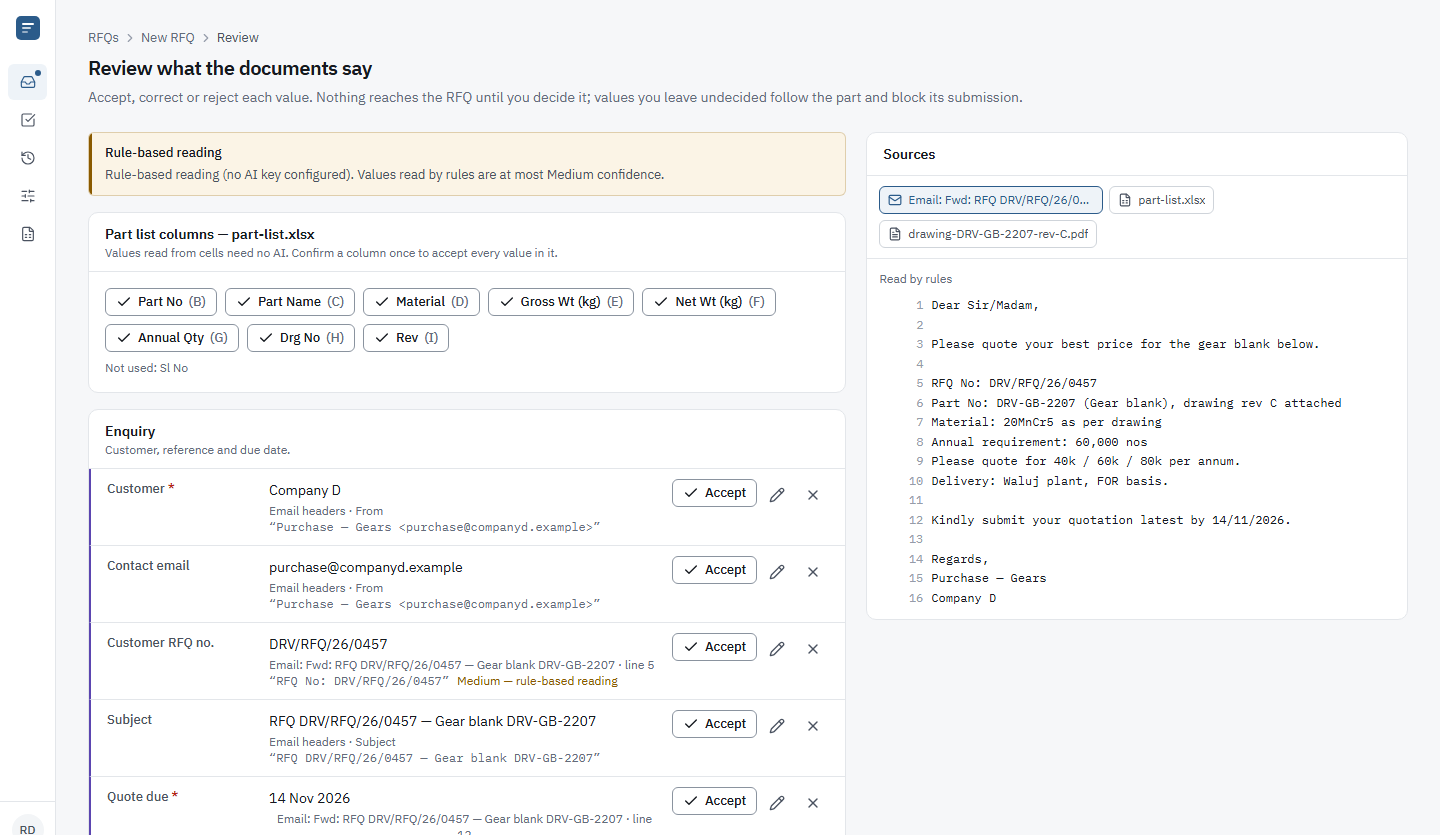
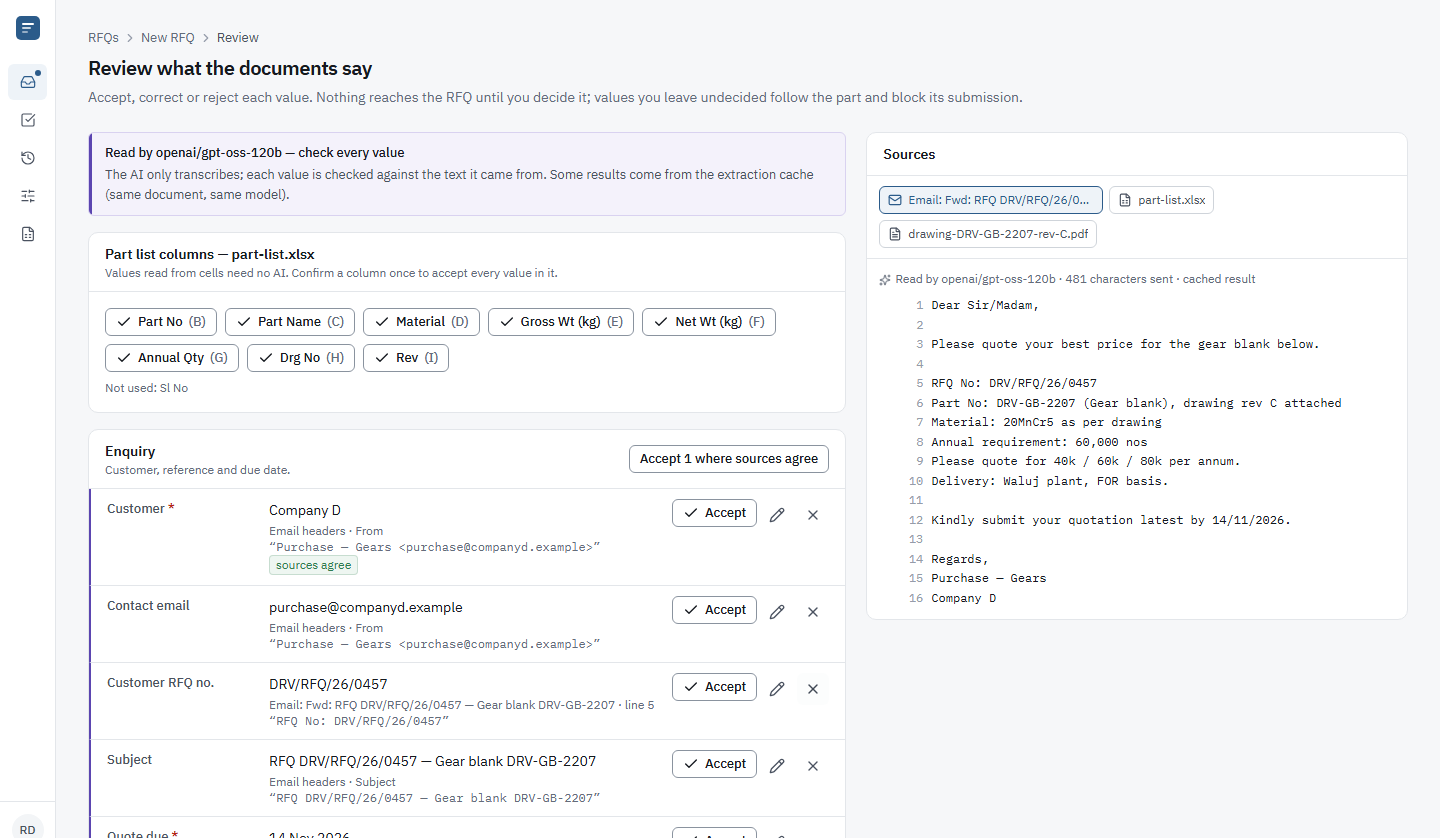
Document the live deployment and the measured AI accuracy
- Live demo link in the README, TDD and deployment notes
- Deployment steps as actually run: Vercel CLI, functions in cle1 next to
  the Neon database in us-east-2, demo data seeded in-region through the
  reset route
- TDD: AI reader 93-94 of 95 fields with none wrong or invented, the
  end-to-end tests also run against production, Groq free-tier limits
- Intake screenshot now shows a real AI read on the live site

diff --git a/docs/TDD.md b/docs/TDD.md
@@ -5,7 +5,7 @@ RFQ-to-quote costing for Company A, Chakan (brief 1: auto-component maker). 4 No
 | | |
 |---|---|
 | **GitHub** | [github.com/utkarshpawade/quote-desk](https://github.com/utkarshpawade/quote-desk) |
-| **Live app** | _added on deployment_ |
+| **Live app** | [quote-desk-xi.vercel.app](https://quote-desk-xi.vercel.app) — reset nightly at 03:00 IST |
 | **Demo sign-in** | Estimator `rohan.deshpande@companya.example` · Sales head `vikram.joshi@companya.example` · password `Chakan@2026` |
 | **Run locally** | `docs/deployment.md` in the repository (also in the submission ZIP) |
 
@@ -245,8 +245,8 @@ source and needs estimator acceptance" — is the design centre.
    browser and transcribed by a vision model.
 2. **Extraction.** `openai/gpt-oss-120b` on Groq with a strict JSON schema: for each field, the value,
    the verbatim evidence and the line number, or null. The prompt treats the document as untrusted
-   data. Temperature 0; 20 s per attempt and a 45 s budget, honouring `retry-after`; results cached by
-   prompt version, model and text.
+   data. Temperature 0; 20 s per attempt and a 45 s budget, honouring `retry-after`, and one more try
+   when the model's output breaks the schema; results cached by prompt version, model and text.
 3. **Normalisation.** Indian grouping (1,80,000), lakh / k / crore, monthly schedules × 12, grams to
    kg, day-first dates with ambiguous ones flagged (A-12), grades and aliases from the rate master
    (EN-8, 080M40 → EN8), customer from the sender's domain (A-22).
@@ -296,7 +296,7 @@ than 20 % heavier or lighter, and keep unknown legacy names unbound until a work
 counts not only correct values but what happens when a value is wrong: *flagged* (shown as Low or a
 conflict, or left empty) versus *silent* (wrong but pre-filled at Medium or High) and *invented*.
 The rule-based reader fills 54 of 95 fields and never fills a wrong or invented value — the right
-profile for a fallback; a test pins that. The AI reader is scored by the same script whenever a Groq key is set; its results are in `docs/intake-eval.md`.
+profile for a fallback; a test pins that. The AI reader (`gpt-oss-120b` on Groq) read 93 of 95 fields correctly in the latest run (94 in another), never filled a wrong or invented value, kept all 9 absent fields empty and ignored the injected instruction; its misses are left for the estimator. Full results: `docs/intake-eval.md`.
 
 <!-- newpage -->
 ## 7. UI and design decisions
@@ -326,9 +326,11 @@ Errors replace numbers with "—" and say why; the similar-parts median sits und
 
 ![Intake review](screens/intake-review.png)
 
-*Intake review.* Decide by uncertainty: values that agree across sources can be accepted together;
-everything else one at a time. The source pane highlights the evidence line. Undecided values stay
-violet.
+*Intake review, read by the AI on the live site.* The banner names the model and says when a
+result came from the cache; the Excel columns needed no AI and are confirmed once each; the customer
+named by the sender's domain and by the drawing agree. Values that agree across sources can be
+accepted together, everything else one at a time; the source pane shows exactly the text the AI
+was given, with the evidence line highlighted. Undecided values stay violet.
 
 ![Quote approval](screens/quote-approval.png)
 
@@ -352,7 +354,7 @@ import report (every rejected row with its cell and reason) and the RFQ's files 
 |---|---|
 | Unit (Vitest) | Costing engine: the three sample parts to the paisa at three volumes; property tests (printed lines always add up; setup and amortised tooling per piece never rise with volume; save → reload → recompute is identical); approval boundary (₹25,00,000.00 by rule, ₹25,00,000.01 to the sales head); rate resolution, back-dating and voiding; canonical snapshot hashing; status transitions; IST working days; intake normalisation, grounding, confidence and merge; Excel mapping; legacy-row validation; similarity; Groq client failure paths (mocked); PDF content |
 | Integration (Vitest on real PostgreSQL) | 20 parallel RFQ creations get 20 consecutive numbers; the seeded database: every frozen quote re-assembles to its stored hash; a new rate re-prices drafts but not frozen quotes; back-dating and voiding are refused; re-importing the register adds nothing |
-| End to end (Playwright) | Estimator submits, sales head approves and sends, and the stored PDF's text carries the quote number, ₹ and 120.46; every screen at 360 × 740 has no sideways scrolling |
+| End to end (Playwright) | Estimator submits, sales head approves and sends, and the stored PDF's text carries the quote number, ₹ and 120.46; every screen at 360 × 740 has no sideways scrolling. Run in CI and against the live deployment |
 | Guards | About 260 Vitest tests in all. Every server action must be built with `defineAction`; the rule-based reader may never fill a wrong value on the eval set |
 | CI (GitHub Actions) | Lint, type check, unit and integration tests on PostgreSQL 17, then the production build and Playwright |
 
@@ -430,6 +432,8 @@ also reset it.
 - No holiday calendar (A-11); no tonnage-band material pricing; GST/HSN need the client's
   confirmation (A-8).
 - The vision model is a preview model on Groq and may be renamed; it is configuration.
+- The demo runs on Groq's free tier: 8,000 tokens a minute, about four documents. Beyond that,
+  intake falls back to the rule-based reader and says so; a paid tier removes the limit.
 
 **Next, in order of value to the client's targets:**
 

diff --git a/docs/deployment.md b/docs/deployment.md
@@ -4,7 +4,7 @@ Quote Desk is one Next.js application (UI, server actions and API routes) with a
 database. It runs the same way on a laptop and on Vercel; only the database location and a few
 environment variables differ.
 
-- **Live demo:** _added when the app is deployed_
+- **Live demo:** https://quote-desk-xi.vercel.app
 - **Repository:** https://github.com/utkarshpawade/quote-desk
 
 ## Demo sign-in
@@ -78,27 +78,40 @@ this on every push (`.github/workflows/ci.yml`).
 
 | Piece | Where | Why |
 |---|---|---|
-| App | Vercel (functions in `sin1`, Singapore) | Next.js host with no servers to manage; functions run next to the database, because a page makes many database round trips and that latency matters more than browser-to-server distance |
-| Database | Neon serverless PostgreSQL (AWS `ap-southeast-1`) | Managed Postgres with `pg_trgm`, pooled connections for serverless functions |
+| App | Vercel, functions in `cle1` (Cleveland, AWS us-east-2) | Next.js host with no servers to manage; functions run next to the database, because a page makes many database round trips and that latency matters more than browser-to-server distance |
+| Database | Neon serverless PostgreSQL (AWS `us-east-2`, Ohio) | Managed Postgres with `pg_trgm`, pooled connections for serverless functions |
 | AI | Groq API | Fast open-weight models; Groq does not train on API data |
 | Nightly reset | Vercel Cron → `/api/cron/reset-demo` at 03:00 IST | Keeps the shared demo fresh for every reviewer |
 
-Steps:
+Steps (this is how the live demo was deployed, with the Vercel CLI):
 
-1. **Database.** Create a Neon project in AWS Singapore. Copy the pooled connection string (host
-   contains `-pooler`) for `DATABASE_URL` and the direct one for `DIRECT_URL`.
-2. **Schema and demo data,** once, from your machine:
+1. **Database.** Create a Neon project. Copy the pooled connection string (host contains
+   `-pooler`) for `DATABASE_URL` and the same string without `-pooler` for `DIRECT_URL`. Put the
+   functions in the Vercel region nearest to it: `regions` in `vercel.json` (`cle1` for
+   us-east-2).
+2. **Schema,** once, from your machine (migrations never run inside the Vercel build):
    ```bash
    DATABASE_URL="<pooled>" DIRECT_URL="<direct>" npm run db:deploy
-   DATABASE_URL="<pooled>" DIRECT_URL="<direct>" npm run db:seed
    ```
-   Later schema changes are applied the same way with `db:deploy` before the new code is promoted.
-3. **App.** Import the GitHub repository in Vercel (framework: Next.js; build command from
-   `package.json`: `prisma generate && next build`). Add the environment variables below for
-   Production. `vercel.json` sets the region and the nightly cron.
-4. **Groq.** Create an API key and turn on Zero Data Retention for the organisation, so prompts
+   Later schema changes are applied the same way before the new code is promoted.
+3. **App.**
+   ```bash
+   npx vercel link --project quote-desk
+   npx vercel env add DATABASE_URL production     # and the other variables below
+   npx vercel deploy --prod
+   ```
+   Importing the GitHub repository in the Vercel dashboard works the same way (framework
+   Next.js; build command from `package.json`: `prisma generate && next build`).
+4. **Demo data.** Seed from inside the region rather than across the world: call the reset route
+   once with the cron secret (about 30 seconds; it also runs every night).
+   ```bash
+   curl -H "Authorization: Bearer $CRON_SECRET" https://<your-app>/api/cron/reset-demo
+   ```
+5. **Groq.** Create an API key and turn on Zero Data Retention for the organisation, so prompts
    are not kept even for abuse monitoring.
-5. Open the deployment, sign in with a demo account, and check the AI banner on "New RFQ".
+6. Open the deployment, sign in with a demo account, and run a sample on "New RFQ": the banner
+   names the model. `BASE_URL=https://<your-app> npm run test:e2e` runs the end-to-end tests
+   against it (then reset the demo).
 
 ### Environment variables (names only)
 
@@ -122,6 +135,8 @@ No secrets are committed: `.env` is git-ignored and `.env.example` holds placeho
 
 - Uploads are capped at 4 MB per file (Vercel's request limit) and 60 MB per person per day; AI
   extraction at 40 calls per person per hour.
+- The demo's Groq key is on the free tier: 8,000 tokens a minute, about four documents. Beyond that
+  intake falls back to the rule-based reader and says so; a paid tier removes the limit.
 - Files are stored in PostgreSQL (`bytea`), which is fine for a demo; production would move them to
   encrypted object storage.
 - "Send to customer" writes to an outbox and stores the exact PDF; no email leaves the system.

diff --git a/docs/DESIGN.md b/docs/DESIGN.md
@@ -585,7 +585,7 @@ Calm, precise, quiet — an engineering ledger, not a dashboard.
 - **PDF:** `@react-pdf/renderer` in a Node route, fonts registered at module scope from a static
   `process.cwd()` path and traced with `outputFileTracingIncludes`; IBM Plex has the ₹ glyph and
   tabular figures; rendered only from the frozen snapshot (drafts: live preview, watermarked DRAFT).
-- **Hosting:** Vercel region `sin1` next to Neon `aws-ap-southeast-1`; `DATABASE_URL` = Neon pooled
+- **Hosting:** Vercel functions next to the Neon database (planned `sin1` / Singapore; deployed `cle1` / us-east-2 where the database was created); `DATABASE_URL` = Neon pooled
   host (runtime), `DIRECT_URL` = direct host (migrations only). Migrations run by hand or from CI —
   never in the Vercel build. `pg_trgm` is enabled by the first migration; search uses `similarity()`
   in `WHERE`/`ORDER BY` (no session `SET`, which leaks across pooled connections).

diff --git a/README.md b/README.md
@@ -7,7 +7,7 @@ annual value go to the sales head for approval; the customer receives a PDF.
 
 ![Part costing: inputs on the left, the cost build-up at three volumes on the right](docs/screens/costing.png)
 
-- **Live demo:** _added when deployed_ · sign in as the estimator `rohan.deshpande@companya.example`
+- **Live demo:** https://quote-desk-xi.vercel.app · sign in as the estimator `rohan.deshpande@companya.example`
   or the sales head `vikram.joshi@companya.example`, password `Chakan@2026`
 - **Run locally / deployment / environment variables:** [docs/deployment.md](docs/deployment.md)
 - **Design notes** (formulas, worked examples, every assumption labelled A-1…A-27):
